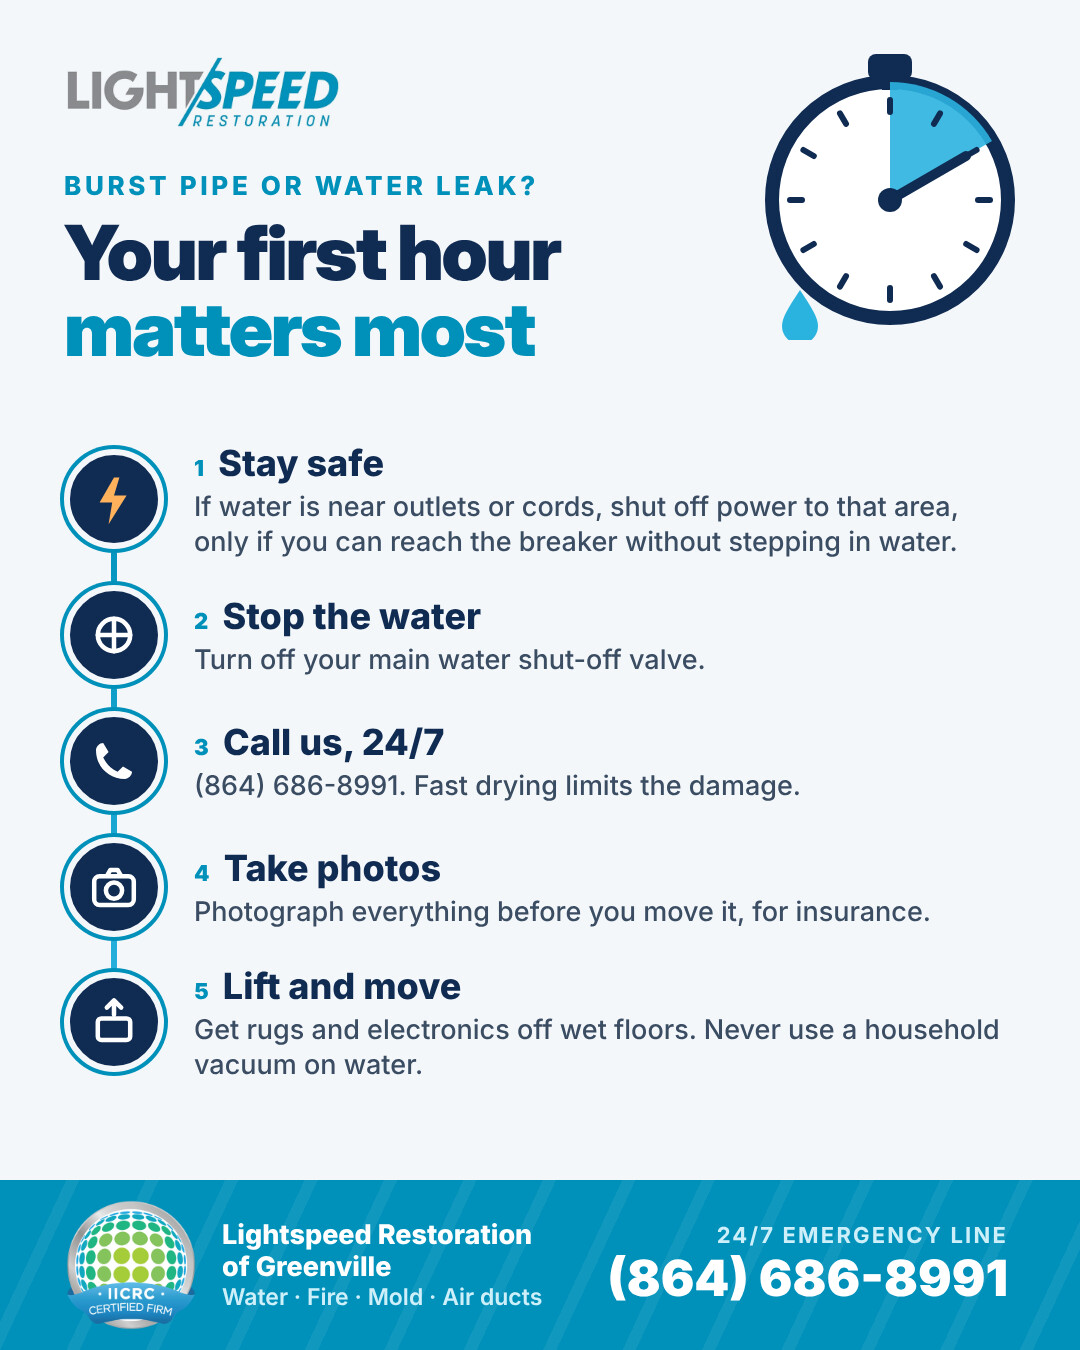
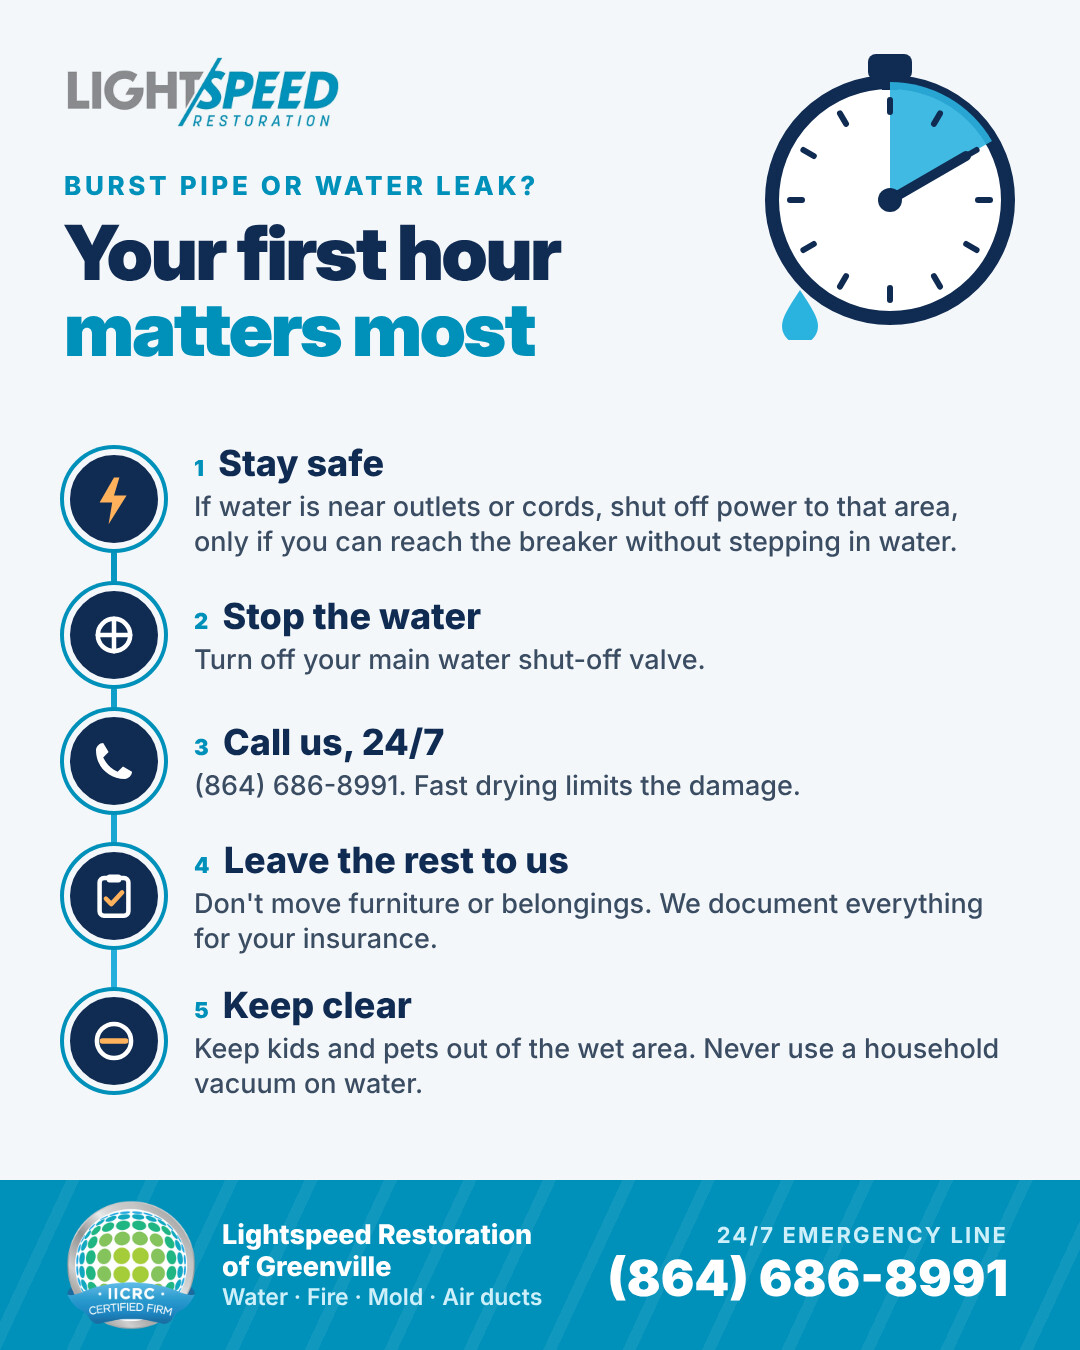
First-hour graphic: customers leave photos and moving to Lightspeed
Claude-Session: https://claude.ai/code/session_01DXYomBNeWiNgmKX2tBxiNe

Changed region(s): [[0.0306, 0.5911, 0.9472, 0.8089]]

diff --git a/designs/2026-11-09/first-hour-water-damage.html b/designs/2026-11-09/first-hour-water-damage.html
@@ -32,5 +32,5 @@ h1 em{font-style:normal;color:#0091BA}
 <div class="kick">Burst pipe or water leak?</div>
 <h1>Your first hour <em>matters most</em></h1>
 <div class="line"></div>
-<div class="steps"><div class="st"><div class="dot"><svg viewBox="0 0 60 60" width="54" height="54"><path d="M30 6L14 34h14l-4 24 20-32H30l6-20z" fill="#FFB15C" stroke="none"/></svg></div><div class="tx"><b><span>1</span>Stay safe</b>If water is near outlets or cords, shut off power to that area, only if you can reach the breaker without stepping in water.</div></div><div class="st"><div class="dot"><svg viewBox="0 0 60 60" width="54" height="54"><circle cx="30" cy="30" r="18" fill="none" stroke="#fff" stroke-width="5"/><path d="M30 12v36M12 30h36" stroke="#fff" stroke-width="5" stroke-linecap="round"/></svg></div><div class="tx"><b><span>2</span>Stop the water</b>Turn off your main water shut-off valve.</div></div><div class="st"><div class="dot"><svg viewBox="0 0 60 60" width="54" height="54"><path d="M18 10c-4 0-8 4-8 8 0 18 14 32 32 32 4 0 8-4 8-8l-10-6-6 6c-8-4-12-8-16-16l6-6-6-10z" fill="#fff"/></svg></div><div class="tx"><b><span>3</span>Call us, 24/7</b>(864) 686-8991. Fast drying limits the damage.</div></div><div class="st"><div class="dot"><svg viewBox="0 0 60 60" width="54" height="54"><rect x="8" y="18" width="44" height="32" rx="6" fill="none" stroke="#fff" stroke-width="5"/><circle cx="30" cy="34" r="9" fill="none" stroke="#fff" stroke-width="5"/><path d="M22 18l4-7h8l4 7" fill="none" stroke="#fff" stroke-width="5" stroke-linejoin="round"/></svg></div><div class="tx"><b><span>4</span>Take photos</b>Photograph everything before you move it, for insurance.</div></div><div class="st"><div class="dot"><svg viewBox="0 0 60 60" width="54" height="54"><rect x="12" y="26" width="36" height="24" rx="4" fill="none" stroke="#fff" stroke-width="5"/><path d="M30 6v16M22 14l8-8 8 8" fill="none" stroke="#fff" stroke-width="5" stroke-linecap="round" stroke-linejoin="round"/></svg></div><div class="tx"><b><span>5</span>Lift and move</b>Get rugs and electronics off wet floors. Never use a household vacuum on water.</div></div></div>
+<div class="steps"><div class="st"><div class="dot"><svg viewBox="0 0 60 60" width="54" height="54"><path d="M30 6L14 34h14l-4 24 20-32H30l6-20z" fill="#FFB15C" stroke="none"/></svg></div><div class="tx"><b><span>1</span>Stay safe</b>If water is near outlets or cords, shut off power to that area, only if you can reach the breaker without stepping in water.</div></div><div class="st"><div class="dot"><svg viewBox="0 0 60 60" width="54" height="54"><circle cx="30" cy="30" r="18" fill="none" stroke="#fff" stroke-width="5"/><path d="M30 12v36M12 30h36" stroke="#fff" stroke-width="5" stroke-linecap="round"/></svg></div><div class="tx"><b><span>2</span>Stop the water</b>Turn off your main water shut-off valve.</div></div><div class="st"><div class="dot"><svg viewBox="0 0 60 60" width="54" height="54"><path d="M18 10c-4 0-8 4-8 8 0 18 14 32 32 32 4 0 8-4 8-8l-10-6-6 6c-8-4-12-8-16-16l6-6-6-10z" fill="#fff"/></svg></div><div class="tx"><b><span>3</span>Call us, 24/7</b>(864) 686-8991. Fast drying limits the damage.</div></div><div class="st"><div class="dot"><svg viewBox="0 0 60 60" width="54" height="54"><rect x="14" y="10" width="32" height="42" rx="5" fill="none" stroke="#fff" stroke-width="5"/><rect x="22" y="6" width="16" height="9" rx="3" fill="#fff"/><path d="M21 33l6 6 12-13" fill="none" stroke="#FFB15C" stroke-width="5" stroke-linecap="round" stroke-linejoin="round"/></svg></div><div class="tx"><b><span>4</span>Leave the rest to us</b>Don't move furniture or belongings. We document everything for your insurance.</div></div><div class="st"><div class="dot"><svg viewBox="0 0 60 60" width="54" height="54"><circle cx="30" cy="30" r="19" fill="none" stroke="#fff" stroke-width="5"/><path d="M17 30h26" stroke="#FFB15C" stroke-width="6" stroke-linecap="round"/></svg></div><div class="tx"><b><span>5</span>Keep clear</b>Keep kids and pets out of the wet area. Never use a household vacuum on water.</div></div></div>
 <img class="mbadge" src="../../brand/iicrc.png"><div class="mfoot"><div class="l">Lightspeed Restoration<br>of Greenville<small>Water · Fire · Mold · Air ducts</small></div><div class="r"><small>24/7 emergency line</small>(864) 686-8991</div></div></body></html>
